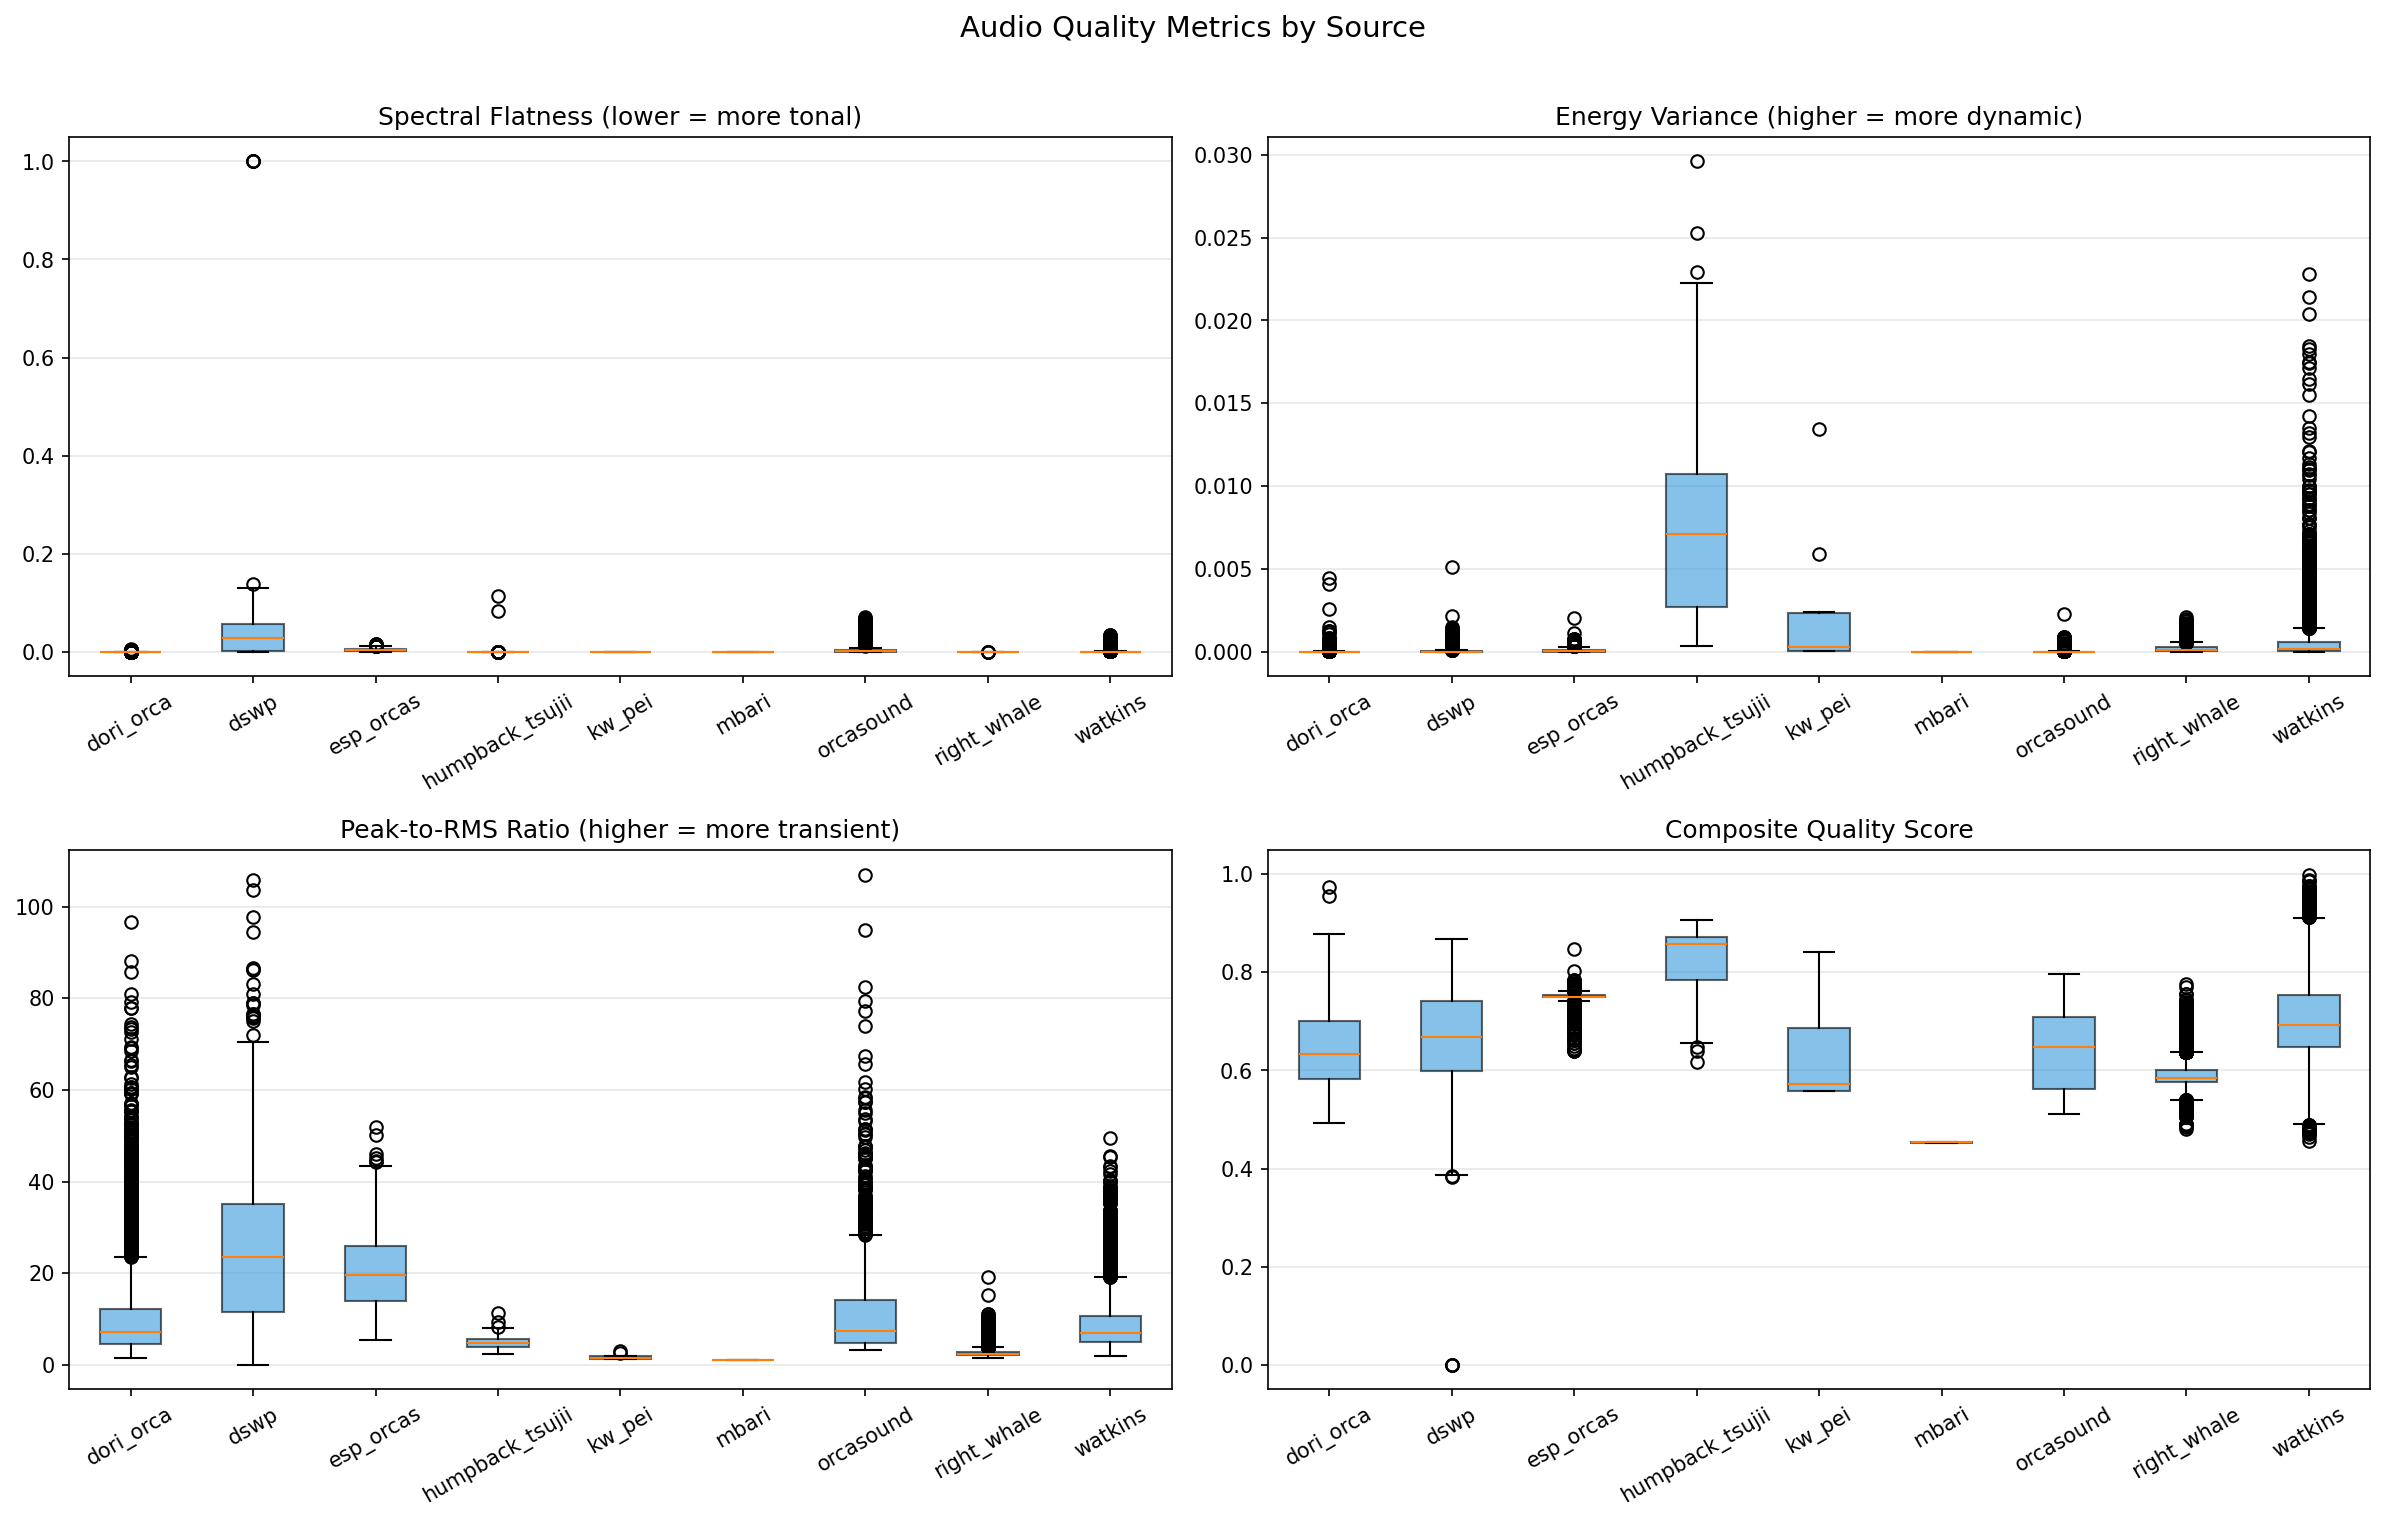
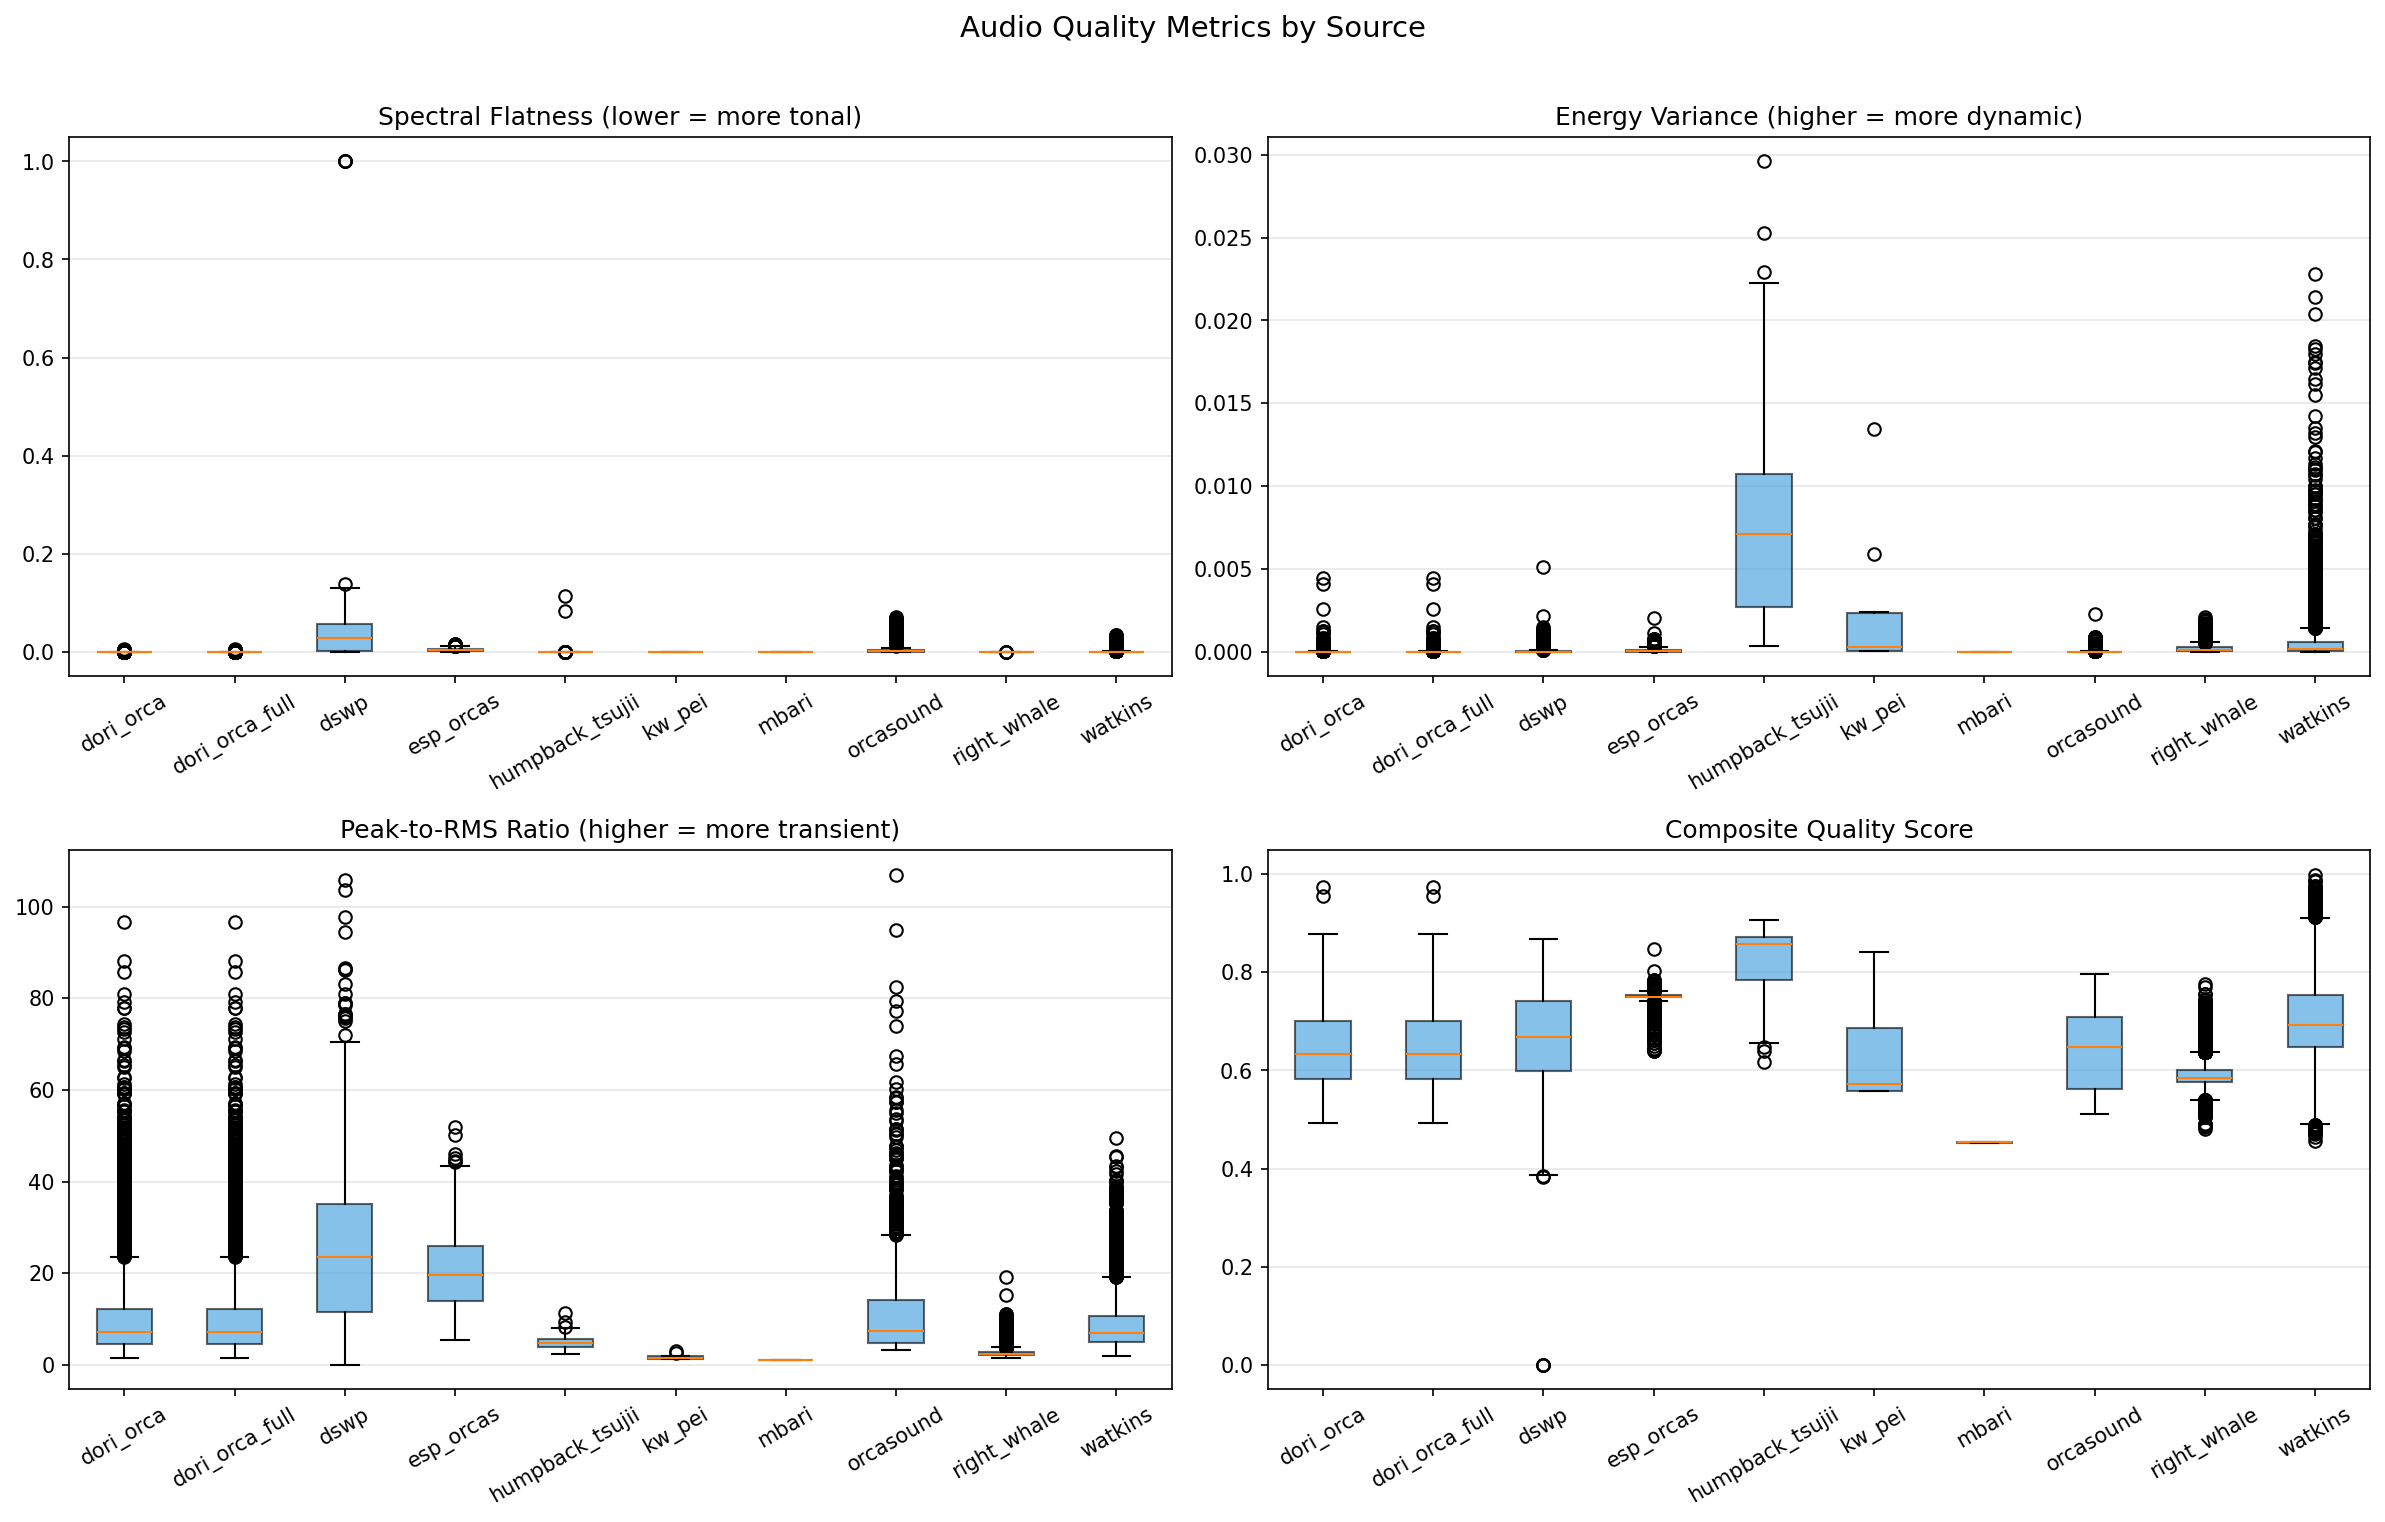
Add quality-filtered training: download new data, grade, tokenize, train
- Download DORI-Orcasound full (1,585 FLAC, 26h orca audio at 44.1kHz)
- Download more MBARI segments (23 x 10-min, up from 4)
- Update grade_audio_quality.py with dori_orca_full source
- Add quality filtering to tokenize_all_audio.py (--quality-csv, --min-grade)
- Add dori_orca_full to tokenization pipeline
- New config: audio_small_all_4cb_ab.yaml (small model, 4CB, A+B filtered)
- Training result: val_loss 3.0254 (perplexity ~20.6), early stopped epoch 50

19,266 A+B segments from 44,609 total, 10.5M tokens across 10 sources.

diff --git a/scripts/tokenize_all_audio.py b/scripts/tokenize_all_audio.py
@@ -6,6 +6,7 @@ Segments long recordings into coda-length chunks before tokenizing.
 """
 
 import argparse
+import csv
 import json
 from pathlib import Path
 
@@ -71,9 +72,35 @@ def segment_audio(audio, sr, max_duration=5.0, min_duration=0.3, silence_thresho
     return segments
 
 
+def load_quality_filter(csv_path, min_grade="B"):
+    """Load quality grades CSV and return set of (source, file, segment_idx) that pass filter."""
+    grade_order = {"A": 5, "B": 4, "C": 3, "D": 2, "F": 1}
+    min_score = grade_order.get(min_grade, 0)
+    allowed = {}  # source -> {filename -> set of segment_idx}
+
+    with open(csv_path) as f:
+        reader = csv.DictReader(f)
+        for row in reader:
+            if grade_order.get(row["grade"], 0) >= min_score:
+                source = row["source"]
+                if source not in allowed:
+                    allowed[source] = {}
+                fname = row["file"]
+                if fname not in allowed[source]:
+                    allowed[source][fname] = set()
+                allowed[source][fname].add(int(row["segment_idx"]))
+
+    return allowed
+
+
 def process_dataset(name, audio_dir, tokenizer, output_dir, max_duration=5.0,
-                    file_patterns=("*.wav", "*.flac"), min_sr=2000):
-    """Process a dataset directory: load, segment, tokenize, save."""
+                    file_patterns=("*.wav", "*.flac"), min_sr=2000,
+                    quality_filter=None):
+    """Process a dataset directory: load, segment, tokenize, save.
+
+    If quality_filter is provided, only tokenize segments whose (file, segment_idx)
+    appears in the filter dict for this source.
+    """
     audio_dir = Path(audio_dir)
     output_dir = Path(output_dir)
     output_dir.mkdir(parents=True, exist_ok=True)
@@ -113,7 +140,19 @@ def process_dataset(name, audio_dir, tokenizer, output_dir, max_duration=5.0,
             # Segment long recordings
             segments = segment_audio(audio, target_sr, max_duration=max_duration)
 
-            for seg in segments:
+            # Get allowed segment indices for this file (if quality filter active)
+            allowed_segs = None
+            if quality_filter is not None:
+                source_filter = quality_filter.get(name, {})
+                allowed_segs = source_filter.get(audio_path.name)
+                if allowed_segs is None:
+                    # No segments from this file passed the filter
+                    continue
+
+            for local_seg_idx, seg in enumerate(segments):
+                if allowed_segs is not None and local_seg_idx not in allowed_segs:
+                    continue
+
                 import torch
                 seg_tensor = torch.tensor(seg, dtype=torch.float32).unsqueeze(0).unsqueeze(0)
                 codes, z = tokenizer.encode(seg_tensor)
@@ -142,12 +181,17 @@ def main():
     parser.add_argument("--n-codebooks", type=int, default=4)
     parser.add_argument("--max-duration", type=float, default=5.0,
                         help="Max segment duration in seconds")
+    parser.add_argument("--quality-csv", type=str, default=None,
+                        help="Path to audio_quality_grades.csv for filtering")
+    parser.add_argument("--min-grade", type=str, default="B",
+                        help="Minimum quality grade to include (A, B, C, D, F)")
     parser.add_argument("--device", type=str, default="cuda")
     args = parser.parse_args()
 
     if args.output_dir is None:
         suffix = f"_{args.n_codebooks}cb" if args.n_codebooks > 1 else ""
-        args.output_dir = f"data/tokenized/all{suffix}"
+        quality_suffix = f"_{args.min_grade.lower()}" if args.quality_csv else ""
+        args.output_dir = f"data/tokenized/all{suffix}{quality_suffix}"
 
     from src.tokenizer.audio_tokenizer import AudioTokenizer
 
@@ -162,6 +206,16 @@ def main():
     )
     print(f"  Sample rate: {tokenizer.sample_rate}, Tokens/sec: {tokenizer.tokens_per_second:.1f}")
 
+    # Load quality filter if specified
+    quality_filter = None
+    if args.quality_csv:
+        print(f"Loading quality filter from {args.quality_csv} (min grade: {args.min_grade})")
+        quality_filter = load_quality_filter(args.quality_csv, min_grade=args.min_grade)
+        total_allowed = sum(
+            len(segs) for files in quality_filter.values() for segs in files.values()
+        )
+        print(f"  {total_allowed} segments pass quality filter")
+
     # Define datasets to process
     datasets = [
         ("dswp", "data/raw/dswp"),
@@ -170,6 +224,7 @@ def main():
         ("orcasound", "data/raw/orcasound"),
         ("mbari", "data/raw/mbari"),
         ("dori_orca", "data/raw/dori_orcasound"),
+        ("dori_orca_full", "data/raw/dori_orcasound_full"),
         ("humpback_tsujii", "data/raw/humpback_zenodo"),
         ("kw_pei", "data/raw/kw_pei"),
         ("right_whale", "data/raw/right_whale/v1"),
@@ -188,6 +243,7 @@ def main():
         stats = process_dataset(
             name, audio_dir, tokenizer, output_dir,
             max_duration=args.max_duration,
+            quality_filter=quality_filter,
         )
         all_stats[name] = stats
         total_tokens += stats["n_tokens"]

diff --git a/scripts/grade_audio_quality.py b/scripts/grade_audio_quality.py
@@ -52,6 +52,8 @@ def get_species_for_file(source: str, filepath: Path) -> str:
         return "Unknown (orcasound)"
     if source == "dori_orca":
         return "Orca"
+    if source == "dori_orca_full":
+        return "Orca"
     return "Unknown"
 
 
@@ -342,6 +344,7 @@ def main():
         ("orcasound", "data/raw/orcasound"),
         ("mbari", "data/raw/mbari"),
         ("dori_orca", "data/raw/dori_orcasound"),
+        ("dori_orca_full", "data/raw/dori_orcasound_full"),
         ("humpback_tsujii", "data/raw/humpback_zenodo"),
         ("kw_pei", "data/raw/kw_pei"),
         ("right_whale", "data/raw/right_whale/v1"),
